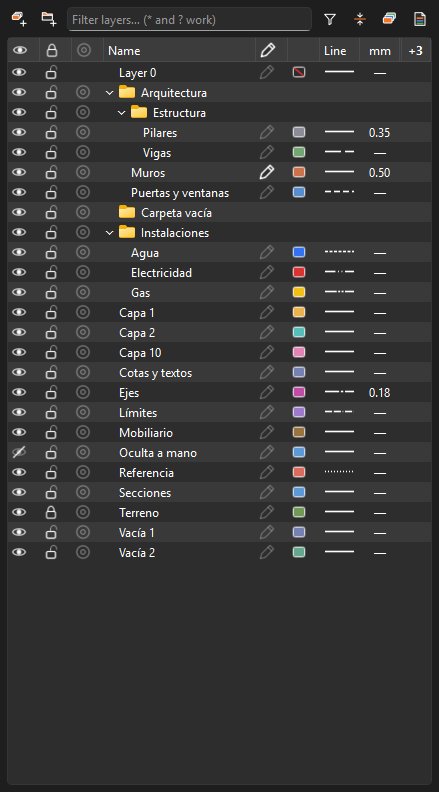
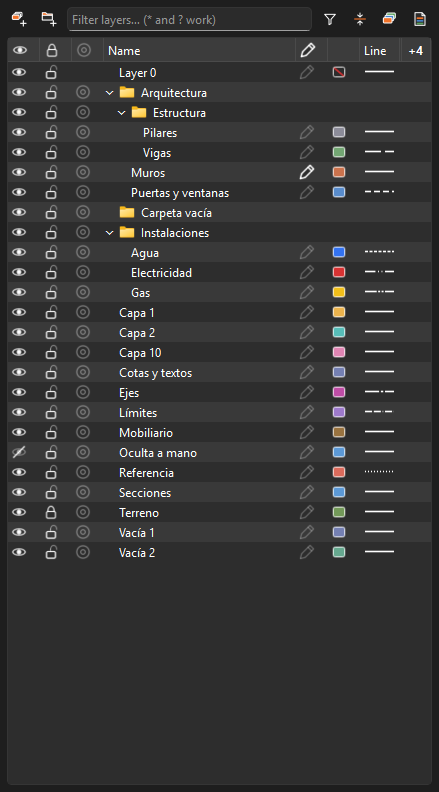
Layers: the line weight column starts hidden
The Layers panel now opens without the «mm» (line weight) column. By
default it shows eye, padlock, target, name, pencil, colour and line
type; weight, print, transparency and # wait in the columns menu
(«+4»). «Default columns» hides it too.

The weight is set once per layer and only shows on sheets, so it does
not need to be in view every day, and the name gets more room.

The manual and its panel and columns-menu screenshots follow.

diff --git a/tests/test_layers_panel.py b/tests/test_layers_panel.py
@@ -1556,13 +1556,16 @@ def test_the_columns_button_switches_columns_and_remembers(win):
     panel = win.layers_dock.panel
     QSettings().remove(LayersPanel.HIDDEN_COLUMNS_KEY)
     panel._apply_column_choice()
-    # By default the print mark, the transparency and the count are off.
-    from views.layers_panel import COL_OPACITY, COL_PRINT
-    assert panel.hidden_columns() == {COL_PRINT, COL_OPACITY, COL_COUNT}
+    # By default the weight, the print mark, the transparency and the count
+    # are off.
+    from views.layers_panel import COL_OPACITY, COL_PRINT, COL_WEIGHT
+    assert panel.hidden_columns() == {COL_WEIGHT, COL_PRINT, COL_OPACITY,
+                                      COL_COUNT}
     assert panel.tree.isColumnHidden(COL_COUNT)
     assert panel.tree.isColumnHidden(COL_OPACITY)
-    assert panel.columns_button.text() == "+3"
-    for c in (COL_COUNT, COL_OPACITY, COL_PRINT):  # now chosen: all on
+    assert panel.columns_button.text() == "+4"
+    for c in (COL_COUNT, COL_OPACITY, COL_PRINT,
+              COL_WEIGHT):                         # now chosen: all on
         panel.set_column_shown(c, True)
     win.layers_dock.raise_()
     _app.processEvents()
@@ -1585,7 +1588,7 @@ def test_the_columns_button_switches_columns_and_remembers(win):
     assert LayersPanel.hidden_columns(panel) == {COL_COUNT}
     QSettings().remove(LayersPanel.HIDDEN_COLUMNS_KEY)
     panel._apply_column_choice()
-    assert b.text() == "+3"                        # back to the default
+    assert b.text() == "+4"                        # back to the default
 
 
 def test_dropped_menus_stay_inside_the_panel(win):
@@ -1870,10 +1873,29 @@ def test_default_columns_puts_the_daily_set_back(win):
     menu = panel._columns_menu()
     next(a for a in menu.actions() if a.text() == "Default columns").trigger()
     hidden = panel.hidden_columns()
-    assert hidden == {COL_PRINT, COL_OPACITY, COL_COUNT}
-    for col in (COL_COLOR, COL_LINETYPE, COL_WEIGHT):
+    assert hidden == {COL_WEIGHT, COL_PRINT, COL_OPACITY, COL_COUNT}
+    for col in (COL_COLOR, COL_LINETYPE):
         assert not panel.tree.isColumnHidden(col)
-    assert panel.columns_button.text() == "+3"
+    assert panel.tree.isColumnHidden(COL_WEIGHT)
+    assert panel.columns_button.text() == "+4"
+
+
+def test_the_line_weight_column_starts_off(win):
+    """Nothing chosen yet: the weight is set once per layer and only shows
+    on sheets, so it waits in the columns menu; the line type stays."""
+    from PySide6.QtCore import QSettings
+    from views.layers_panel import COL_LINETYPE, COL_WEIGHT, LayersPanel
+    panel = win.layers_dock.panel
+    QSettings().remove(LayersPanel.HIDDEN_COLUMNS_KEY)
+    panel._apply_column_choice()
+    assert COL_WEIGHT in panel.hidden_columns()
+    assert panel.tree.isColumnHidden(COL_WEIGHT)
+    assert not panel.tree.isColumnHidden(COL_LINETYPE)
+    menu = panel._columns_menu()
+    act = next(a for a in menu.actions() if a.text() == "Line weight")
+    assert not act.isChecked()
+    act.setChecked(True)                             # one tick brings it back
+    assert not panel.tree.isColumnHidden(COL_WEIGHT)
 
 
 def test_the_columns_menu_reads_show_all_switches_then_defaults(win):

diff --git a/views/layers_panel.py b/views/layers_panel.py
@@ -1518,11 +1518,12 @@ class LayersPanel(QWidget):
     HIDDEN_COLUMNS_KEY = "layers/hidden_columns"
 
     #: Off until asked for — what is set now and then, not looked at every
-    #: day: the print mark (a few reference layers, once per project),
+    #: day: the line weight (set once per layer, and only seen on sheets),
+    #: the print mark (a few reference layers, once per project),
     #: transparency (a viewing aid) and the count (it adds faces, edges and
     #: objects up, a number that mostly says «empty or not» — which the
     #: filter and Purge say already). The name keeps room to be read.
-    DEFAULT_HIDDEN = (COL_PRINT, COL_OPACITY, COL_COUNT)
+    DEFAULT_HIDDEN = (COL_WEIGHT, COL_PRINT, COL_OPACITY, COL_COUNT)
 
     def hidden_columns(self) -> set[int]:
         from PySide6.QtCore import QSettings

diff --git a/docs/layers.md b/docs/layers.md
@@ -57,8 +57,8 @@ stays open while you tick, so several change in one go.
 
 ![Columns menu](images/layers/menu-columns.png)
 
-- **Default**: eye, padlock, target, name, pencil, colour, line and mm.
-  Printer, transparency and # start off.
+- **Default**: eye, padlock, target, name, pencil, colour and line.
+  Mm, printer, transparency and # start off.
 - **Show all columns** at the top; **Default columns** at the bottom.
 - The choice is remembered.
 
